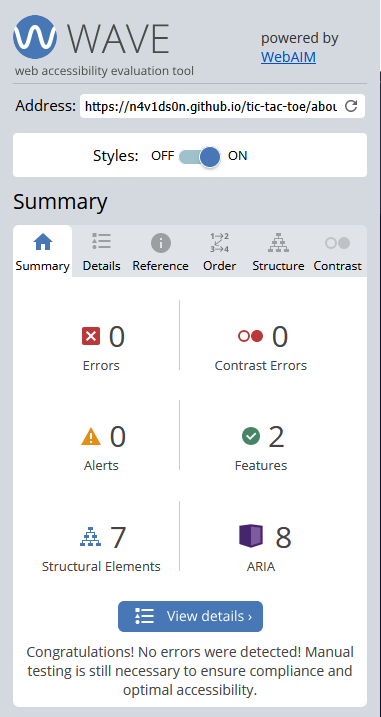
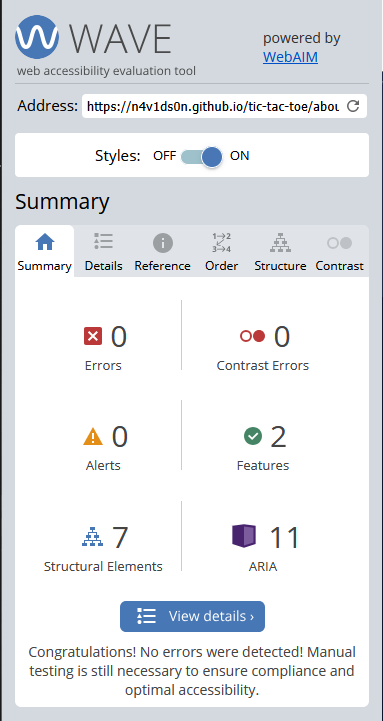
Remove fieldset as it is redundant

diff --git a/contact.html b/contact.html
@@ -84,23 +84,19 @@
             <h1 id="contact-heading">Contact Us</h1>
             <p>If you have any questions or suggestions, we'd love to hear from you! Fill out the form below:</p>
             <form id="contact-form" aria-labelledby="contact-heading">
-                <fieldset>
-                    <legend>Contact Information</legend>
-                    <div class="form-row">
-                        <div class="form-group">
-                            <label for="from_name">Name</label><br>
-                            <input type="text" id="from_name" name="from_name" placeholder="Your Name" required><br><br>
-                            <label for="reply_to">Email</label><br>
-                            <input type="email" id="reply_to" name="reply_to" placeholder="Your Email" required><br><br>
-                        </div>
-                        <div class="form-group">
-                            <label for="message">Message</label><br>
-                            <textarea id="message" name="message" placeholder="Your Message" rows="5" required></textarea><br><br>
-                        </div>
+                <div class="form-row">
+                    <div class="form-group">
+                        <label for="from_name">Name</label><br>
+                        <input type="text" id="from_name" name="from_name" placeholder="Your Name" required><br><br>
+                        <label for="reply_to">Email</label><br>
+                        <input type="email" id="reply_to" name="reply_to" placeholder="Your Email" required><br><br>
                     </div>
-                    <button type="submit" aria-label="Send your message">Send Message</button>
-                </fieldset>
-                
+                    <div class="form-group">
+                        <label for="message">Message</label><br>
+                        <textarea id="message" name="message" placeholder="Your Message" rows="5" required></textarea><br><br>
+                    </div>
+                </div>
+                <button type="submit" aria-label="Send your message">Send Message</button>                
             </form>
         </section>
         <!-- a custom alert window that looks nicer than the default -->
